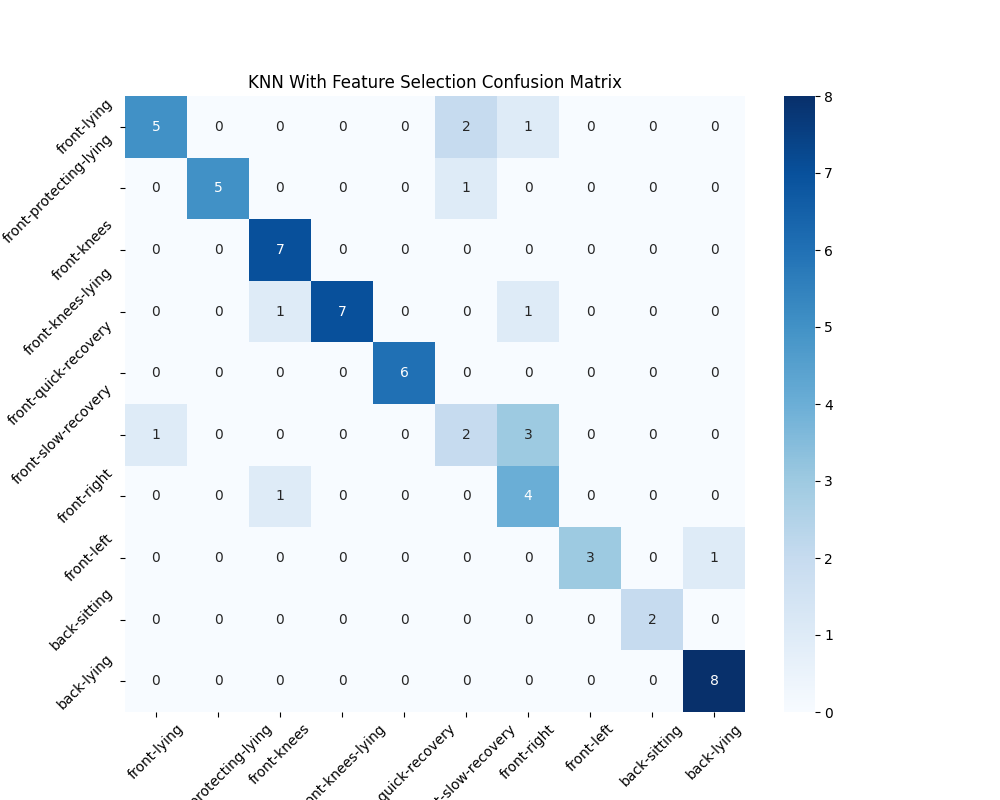
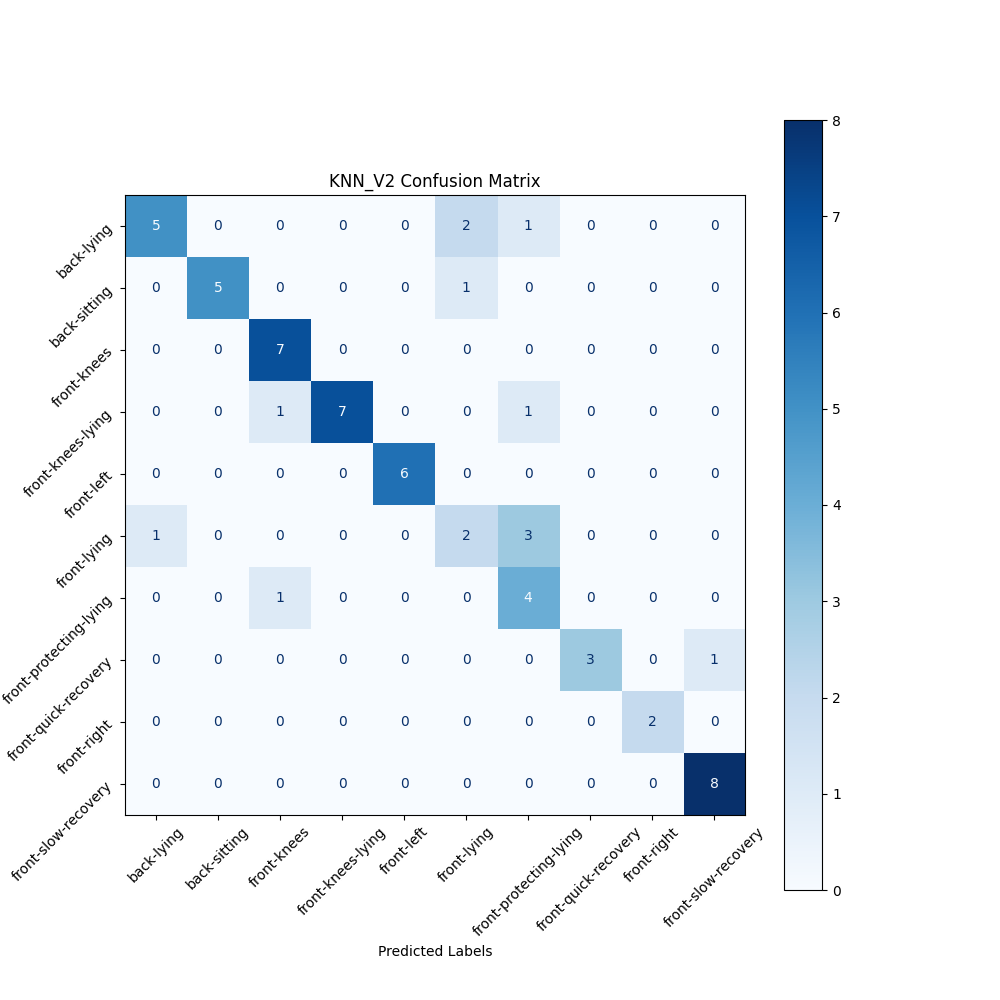
KNN_V1

diff --git a/KNN/KNN_V1.py b/KNN/KNN_V1.py
@@ -1,0 +1,159 @@
+import os
+import pandas as pd
+import numpy as np
+import matplotlib.pyplot as plt
+from sklearn.model_selection import train_test_split
+from sklearn.preprocessing import StandardScaler, LabelEncoder,label_binarize
+from sklearn.impute import SimpleImputer
+from sklearn.neighbors import KNeighborsClassifier
+from sklearn.metrics import accuracy_score, roc_curve, roc_auc_score, auc, confusion_matrix,ConfusionMatrixDisplay
+import joblib
+import argparse
+import seaborn as sns
+from itertools import cycle
+
+# Define the label mapping
+label_mapping = {
+    '901': 'front-lying',
+    '902': 'front-protecting-lying',
+    '903': 'front-knees',
+    '904': 'front-knees-lying',
+    '905': 'front-quick-recovery',
+    '906': 'front-slow-recovery',
+    '907': 'front-right',
+    '908': 'front-left',
+    '909': 'back-sitting',
+    '910': 'back-lying'
+}
+
+def load_data(base_path):
+    data = []
+    labels = []
+    for label_folder in os.listdir(base_path):
+        label_id = label_folder.split('-')[0]
+        label = label_mapping.get(label_id)
+        if label is None:
+            continue
+        label_folder_path = os.path.join(base_path, label_folder)
+        for volunteer_folder in os.listdir(label_folder_path):
+            volunteer_folder_path = os.path.join(label_folder_path, volunteer_folder)
+            for test_folder in os.listdir(volunteer_folder_path):
+                test_folder_path = os.path.join(volunteer_folder_path, test_folder)
+                combined_data = []
+                min_length = None
+                for sensor_file in os.listdir(test_folder_path):
+                    sensor_file_path = os.path.join(test_folder_path, sensor_file)
+                    sensor_data = pd.read_csv(sensor_file_path)
+                    if min_length is None or len(sensor_data) < min_length:
+                        min_length = len(sensor_data)
+                    combined_data.append(sensor_data.values)
+                combined_data = [arr[:min_length] for arr in combined_data]
+                combined_data = np.concatenate(combined_data, axis=1)
+                data.append(combined_data)
+                labels.append(label)
+    max_length = max(len(d) for d in data)
+    data = [np.pad(d, ((0, max_length - len(d)), (0, 0)), 'constant') for d in data]
+    return np.array(data), np.array(labels)
+
+def preprocess_data(base_path):
+    data, labels = load_data(base_path)
+    data = data.reshape(data.shape[0], -1)
+    imputer = SimpleImputer(strategy='mean')
+    data = imputer.fit_transform(data)
+    scaler = StandardScaler()
+    data = scaler.fit_transform(data)
+    le = LabelEncoder()
+    labels = le.fit_transform(labels)
+    X_train, X_test, y_train, y_test = train_test_split(data, labels, test_size=0.2, random_state=42)
+    return X_train, X_test, y_train, y_test, scaler, le, le.classes_, imputer
+
+def train_and_evaluate(X_train, X_test, y_train, y_test, classes, le):
+    knn = KNeighborsClassifier(n_neighbors=5)
+    knn.fit(X_train, y_train)
+    y_pred = knn.predict(X_test)
+    #plot_confusion_matrix(y_test, y_pred, [le.inverse_transform([i])[0] for i in range(len(classes))])
+    return knn,y_pred
+
+def plot_confusion_matrix(model, X_test, y_test, le):
+    y_pred = model.predict(X_test)
+    cm = confusion_matrix(y_test, y_pred)
+    labels = le.inverse_transform(range(len(label_mapping)))  # Convert numeric labels back to original string labels
+    cm_display = ConfusionMatrixDisplay(confusion_matrix=cm, display_labels=labels)
+    fig, ax = plt.subplots(figsize=(10, 10))  # Increase figure size for better visibility
+    cm_display.plot(cmap=plt.cm.Blues, ax=ax)
+    plt.xlabel('Predicted Labels')
+    plt.ylabel('True Labels')
+    plt.xticks(rotation=45)  # Rotate labels for better readability
+    plt.yticks(rotation=45)
+    plt.grid(False) 
+    plt.title('KNN_V1 Confusion Matrix')
+    plt.savefig('KNN_V1_Confusion_Matrix.png')  # Save confusion matrix
+    #plt.show()
+    plt.close()
+
+def print_accuracy(y_true, y_pred):
+    accuracy = accuracy_score(y_true, y_pred)
+    print(f"Model Accuracy: {accuracy * 100:.2f}%")
+
+
+def save_model(knn_model, scaler, le, imputer, model_path, scaler_path, le_path, imputer_path):
+    base_dir = "trained_model/"
+    
+    # Ensure the base directory exists
+    if not os.path.exists(base_dir):
+        os.makedirs(base_dir)
+
+    # Full paths for saving
+    full_model_path = os.path.join(base_dir, model_path)
+    full_scaler_path = os.path.join(base_dir, scaler_path)
+    full_le_path = os.path.join(base_dir, le_path)
+    full_imputer_path = os.path.join(base_dir, imputer_path)
+
+    print("Saving model to:", full_model_path)  # Debugging line to check path
+    joblib.dump(knn_model, full_model_path)
+    joblib.dump(scaler, full_scaler_path)
+    joblib.dump(le, full_le_path)
+    joblib.dump(imputer, full_imputer_path)
+
+    print("Models and scalers saved successfully to:", base_dir)
+
+def load_model(model_path):
+    return joblib.load(model_path)
+
+def preprocess_new_data(new_data_path, scaler, imputer):
+    new_data = pd.read_csv(new_data_path)
+    new_data = new_data.values.flatten()  # Assuming the data needs to be flattened for prediction
+    new_data = new_data.reshape(1, -1)  # Reshape for single sample prediction
+    new_data = imputer.transform(new_data)  # Impute missing values if necessary
+    new_data_scaled = scaler.transform(new_data)  # Scale data
+    return new_data_scaled
+
+def predict(model, new_data_scaled):
+    return model.predict(new_data_scaled)
+
+if __name__ == "__main__":
+    parser = argparse.ArgumentParser(description="Train or Predict using KNN model for fall detection")
+    parser.add_argument('mode', choices=['train', 'predict'], help="Mode: train a new model or predict using an existing model")
+    parser.add_argument('--dataset', type=str, help="Path to the dataset directory for training")
+    parser.add_argument('--new_data', type=str, help="Path to the new data directory for prediction")
+    parser.add_argument('--model', type=str, default='trained_model/knn_model.joblib', help="Path to save or load the model")
+    parser.add_argument('--scaler', type=str, default='trained_model/scaler.joblib', help="Path to save or load the scaler")
+    parser.add_argument('--label_encoder', type=str, default='trained_model/label_encoder.joblib', help="Path to save or load the label encoder")
+    parser.add_argument('--imputer', type=str, default='trained_model/imputer.joblib', help="Path to save or load the imputer")
+
+    args = parser.parse_args()
+
+    if args.mode == 'train':
+        X_train, X_test, y_train, y_test, scaler, le, classes, imputer = preprocess_data(args.dataset)
+        knn_model, y_pred = train_and_evaluate(X_train, X_test, y_train, y_test, classes, le)
+        plot_confusion_matrix(knn_model,X_test,y_test, le)
+        # Now call print_accuracy
+        print_accuracy(y_test, y_pred)
+
+        #save_model(knn_model, scaler, le, imputer, args.model, args.scaler, args.label_encoder, args.imputer)
+    elif args.mode == 'predict':
+        knn_model = load_model(args.model)
+        new_data_scaled = preprocess_new_data(args.new_data, scaler, imputer)
+        prediction = predict(knn_model, new_data_scaled)
+        predicted_label = le.inverse_transform(prediction)
+        print(f'Predicted Fall Action Label: {predicted_label[0]}')

diff --git a/Feature Selection/KNN_V2/KNN_V2.py b/Feature Selection/KNN_V2/KNN_V2.py
@@ -144,17 +144,19 @@ def plot_roc_curve(y_test, y_score, num_classes, labels):
     #plt.show()
     plt.close()
 
-def plot_confusion_matrix(y_true, y_pred, labels):
-    cm = confusion_matrix(y_true, y_pred)
-    cmap=plt.cm.Blues
-    disp = ConfusionMatrixDisplay(confusion_matrix=cm, display_labels=labels)
-    disp.plot(cmap=cmap)
-    plt.figure(figsize=(10, 8))
-    sns.heatmap(cm, annot=True, fmt='d', cmap=cmap, xticklabels=labels, yticklabels=labels)
+def plot_confusion_matrix(model, X_test, y_test, le):
+    y_pred = model.predict(X_test)
+    cm = confusion_matrix(y_test, y_pred)
+    labels = le.inverse_transform(range(len(label_mapping)))  # Convert numeric labels back to original string labels
+    cm_display = ConfusionMatrixDisplay(confusion_matrix=cm, display_labels=labels)
+    fig, ax = plt.subplots(figsize=(10, 10))  # Increase figure size for better visibility
+    cm_display.plot(cmap=plt.cm.Blues, ax=ax)
+    plt.xlabel('Predicted Labels')
+    plt.ylabel('True Labels')
     plt.xticks(rotation=45)  # Rotate labels for better readability
     plt.yticks(rotation=45)
     plt.grid(False) 
-    plt.title('KNN With Feature Selection Confusion Matrix')
+    plt.title('KNN_V2 Confusion Matrix')
     plt.savefig('KNN_With_Feature_Selection_Confusion_Matrix.png')  # Save confusion matrix
     #plt.show()
     plt.close()
@@ -218,16 +220,16 @@ def main(data_path):
     y_test_binarized = label_binarize(y_test, classes=np.unique(labels))
 
     plot_roc_curve(y_test_binarized, y_scores, len(np.unique(labels)), class_names)
-    plot_confusion_matrix(y_test, y_pred, class_names)
-    #print_accuracy(y_test, y_pred)
+    plot_confusion_matrix(knn_model,X_test,y_test, le)
+    print_accuracy(y_test, y_pred)
 
     #find the best N neighbors
     #best_knn = tune_hyperparameters(X_train, y_train)
     #plot_validation_curve(X_train, y_train)
     
     # Testing the best model
-    y_pred = best_knn.predict(X_test)
-    print("Test Accuracy:", accuracy_score(y_test, y_pred))
+    # y_pred = best_knn.predict(X_test)
+    # print("Test Accuracy:", accuracy_score(y_test, y_pred))
 
 if __name__ == "__main__":
     parser = argparse.ArgumentParser(description='Train a KNN model on sensor data.')
